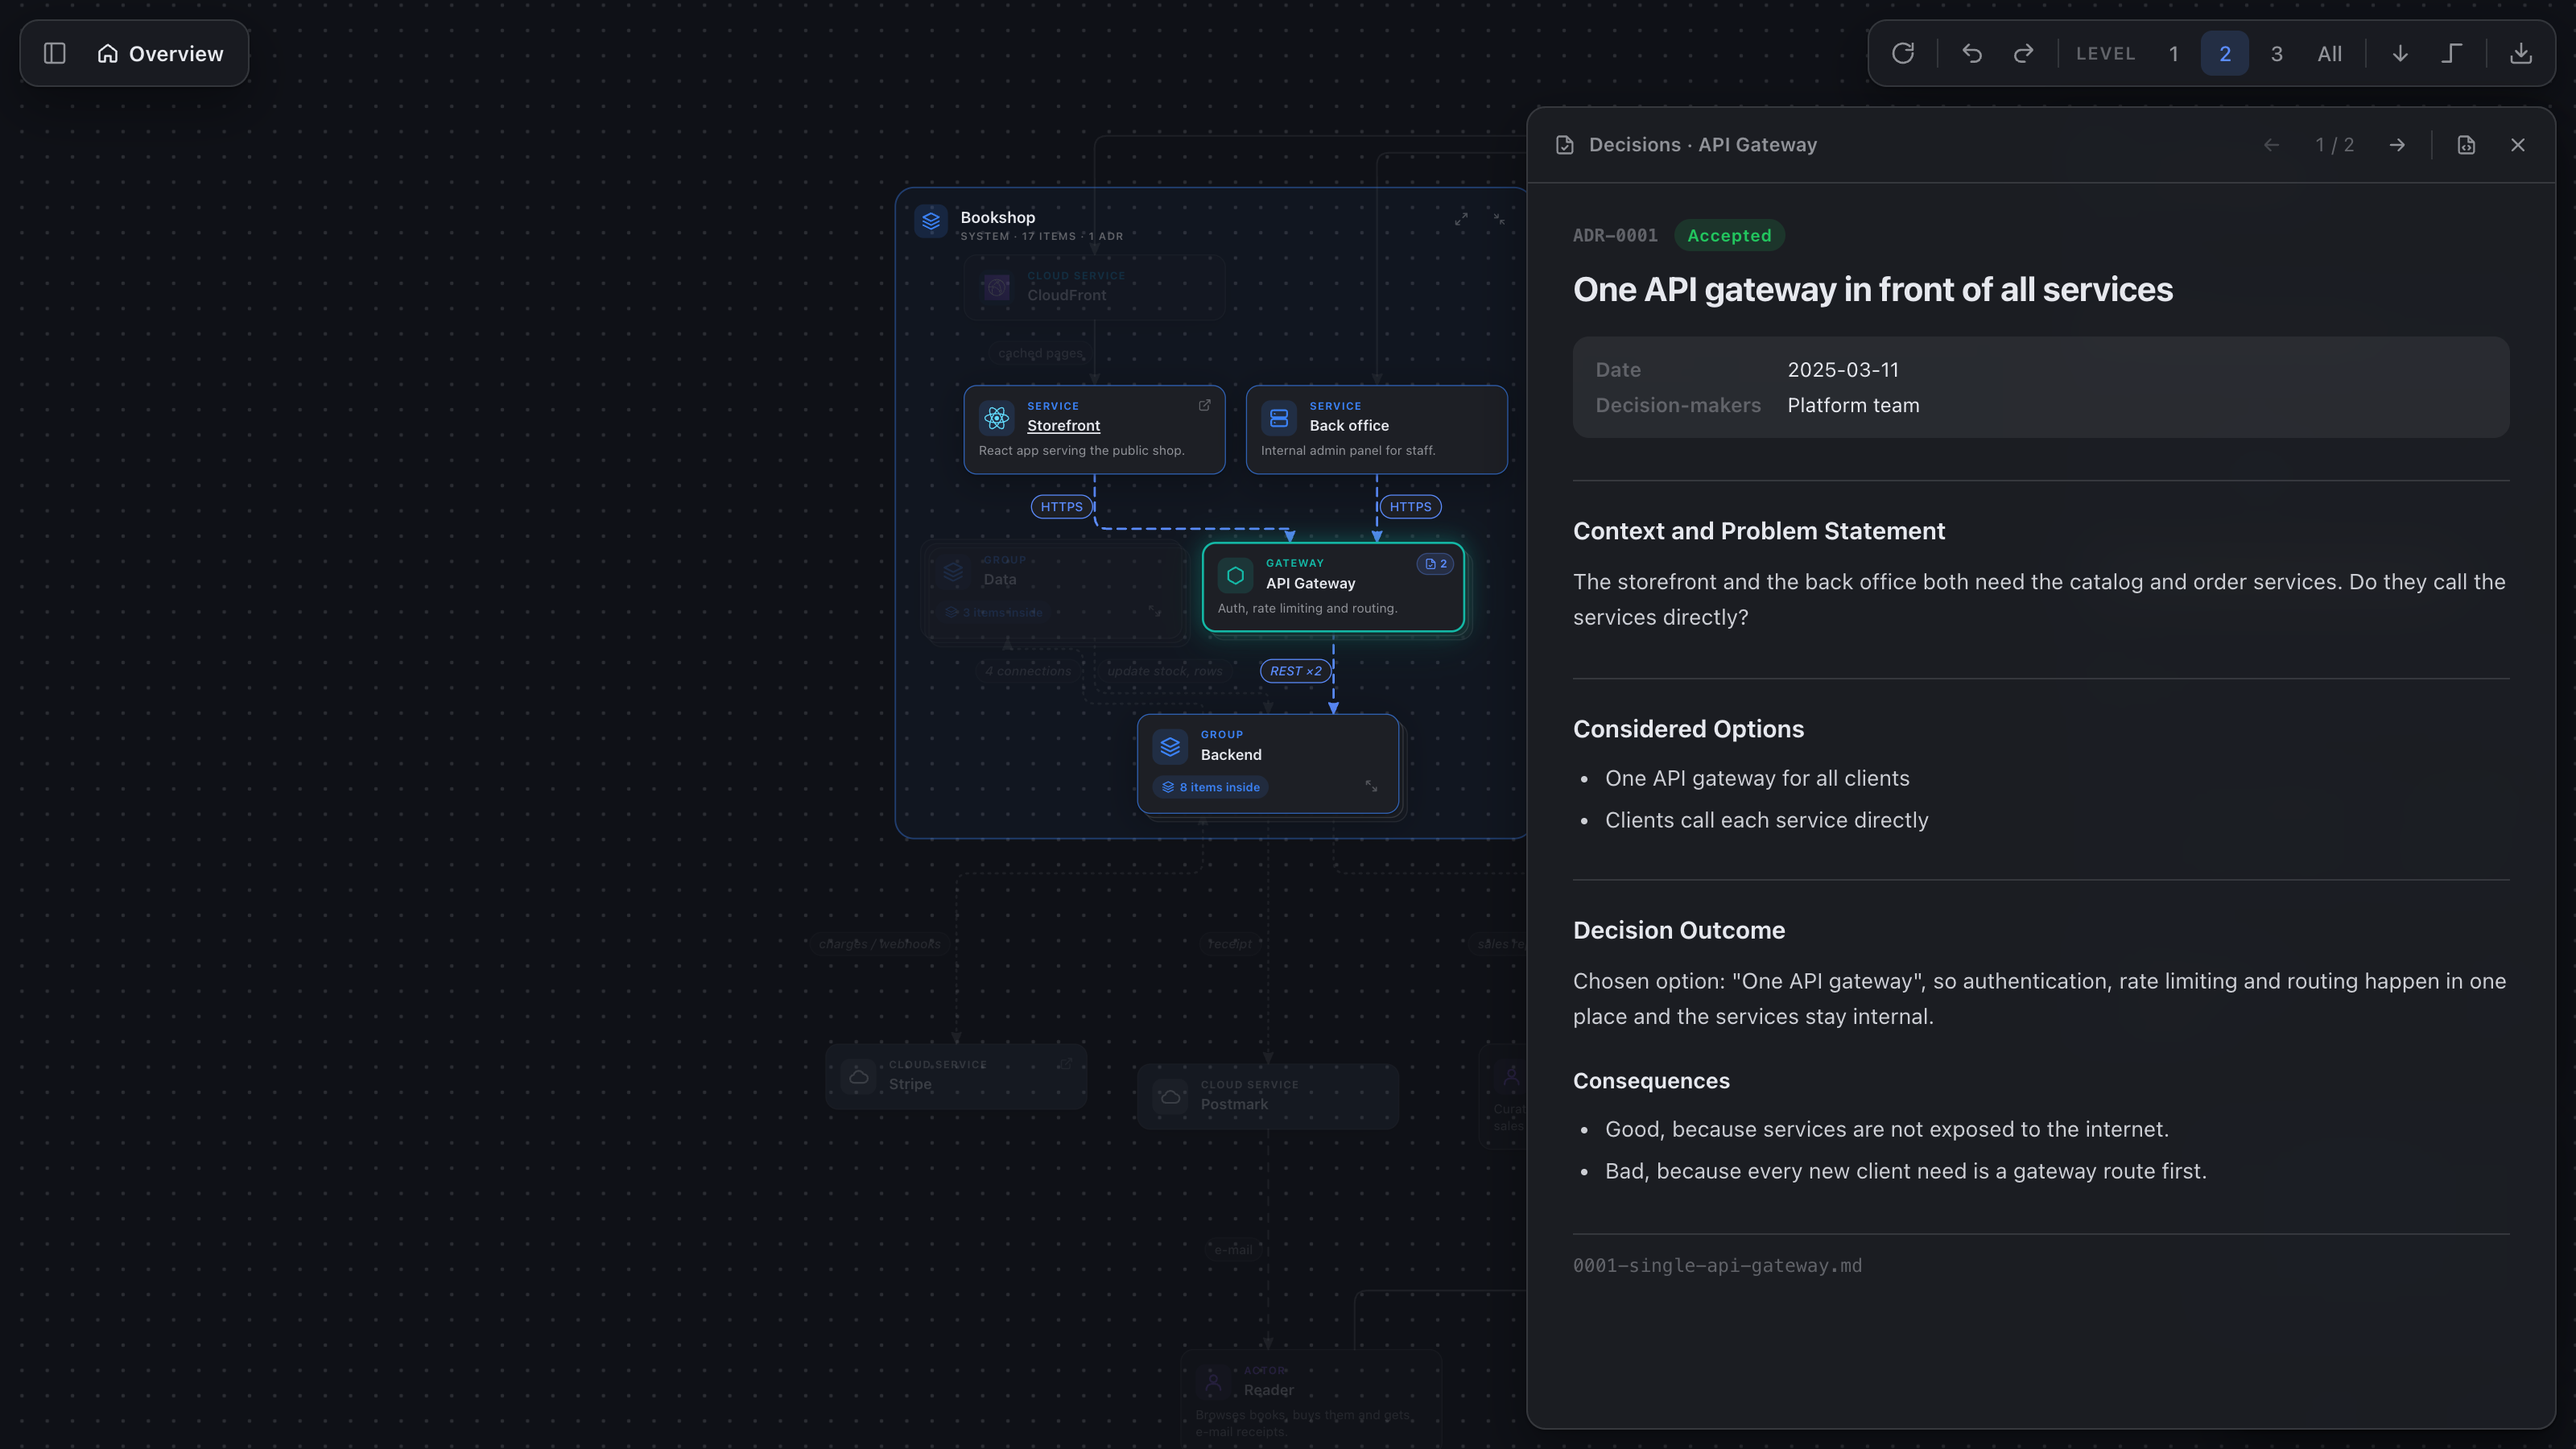
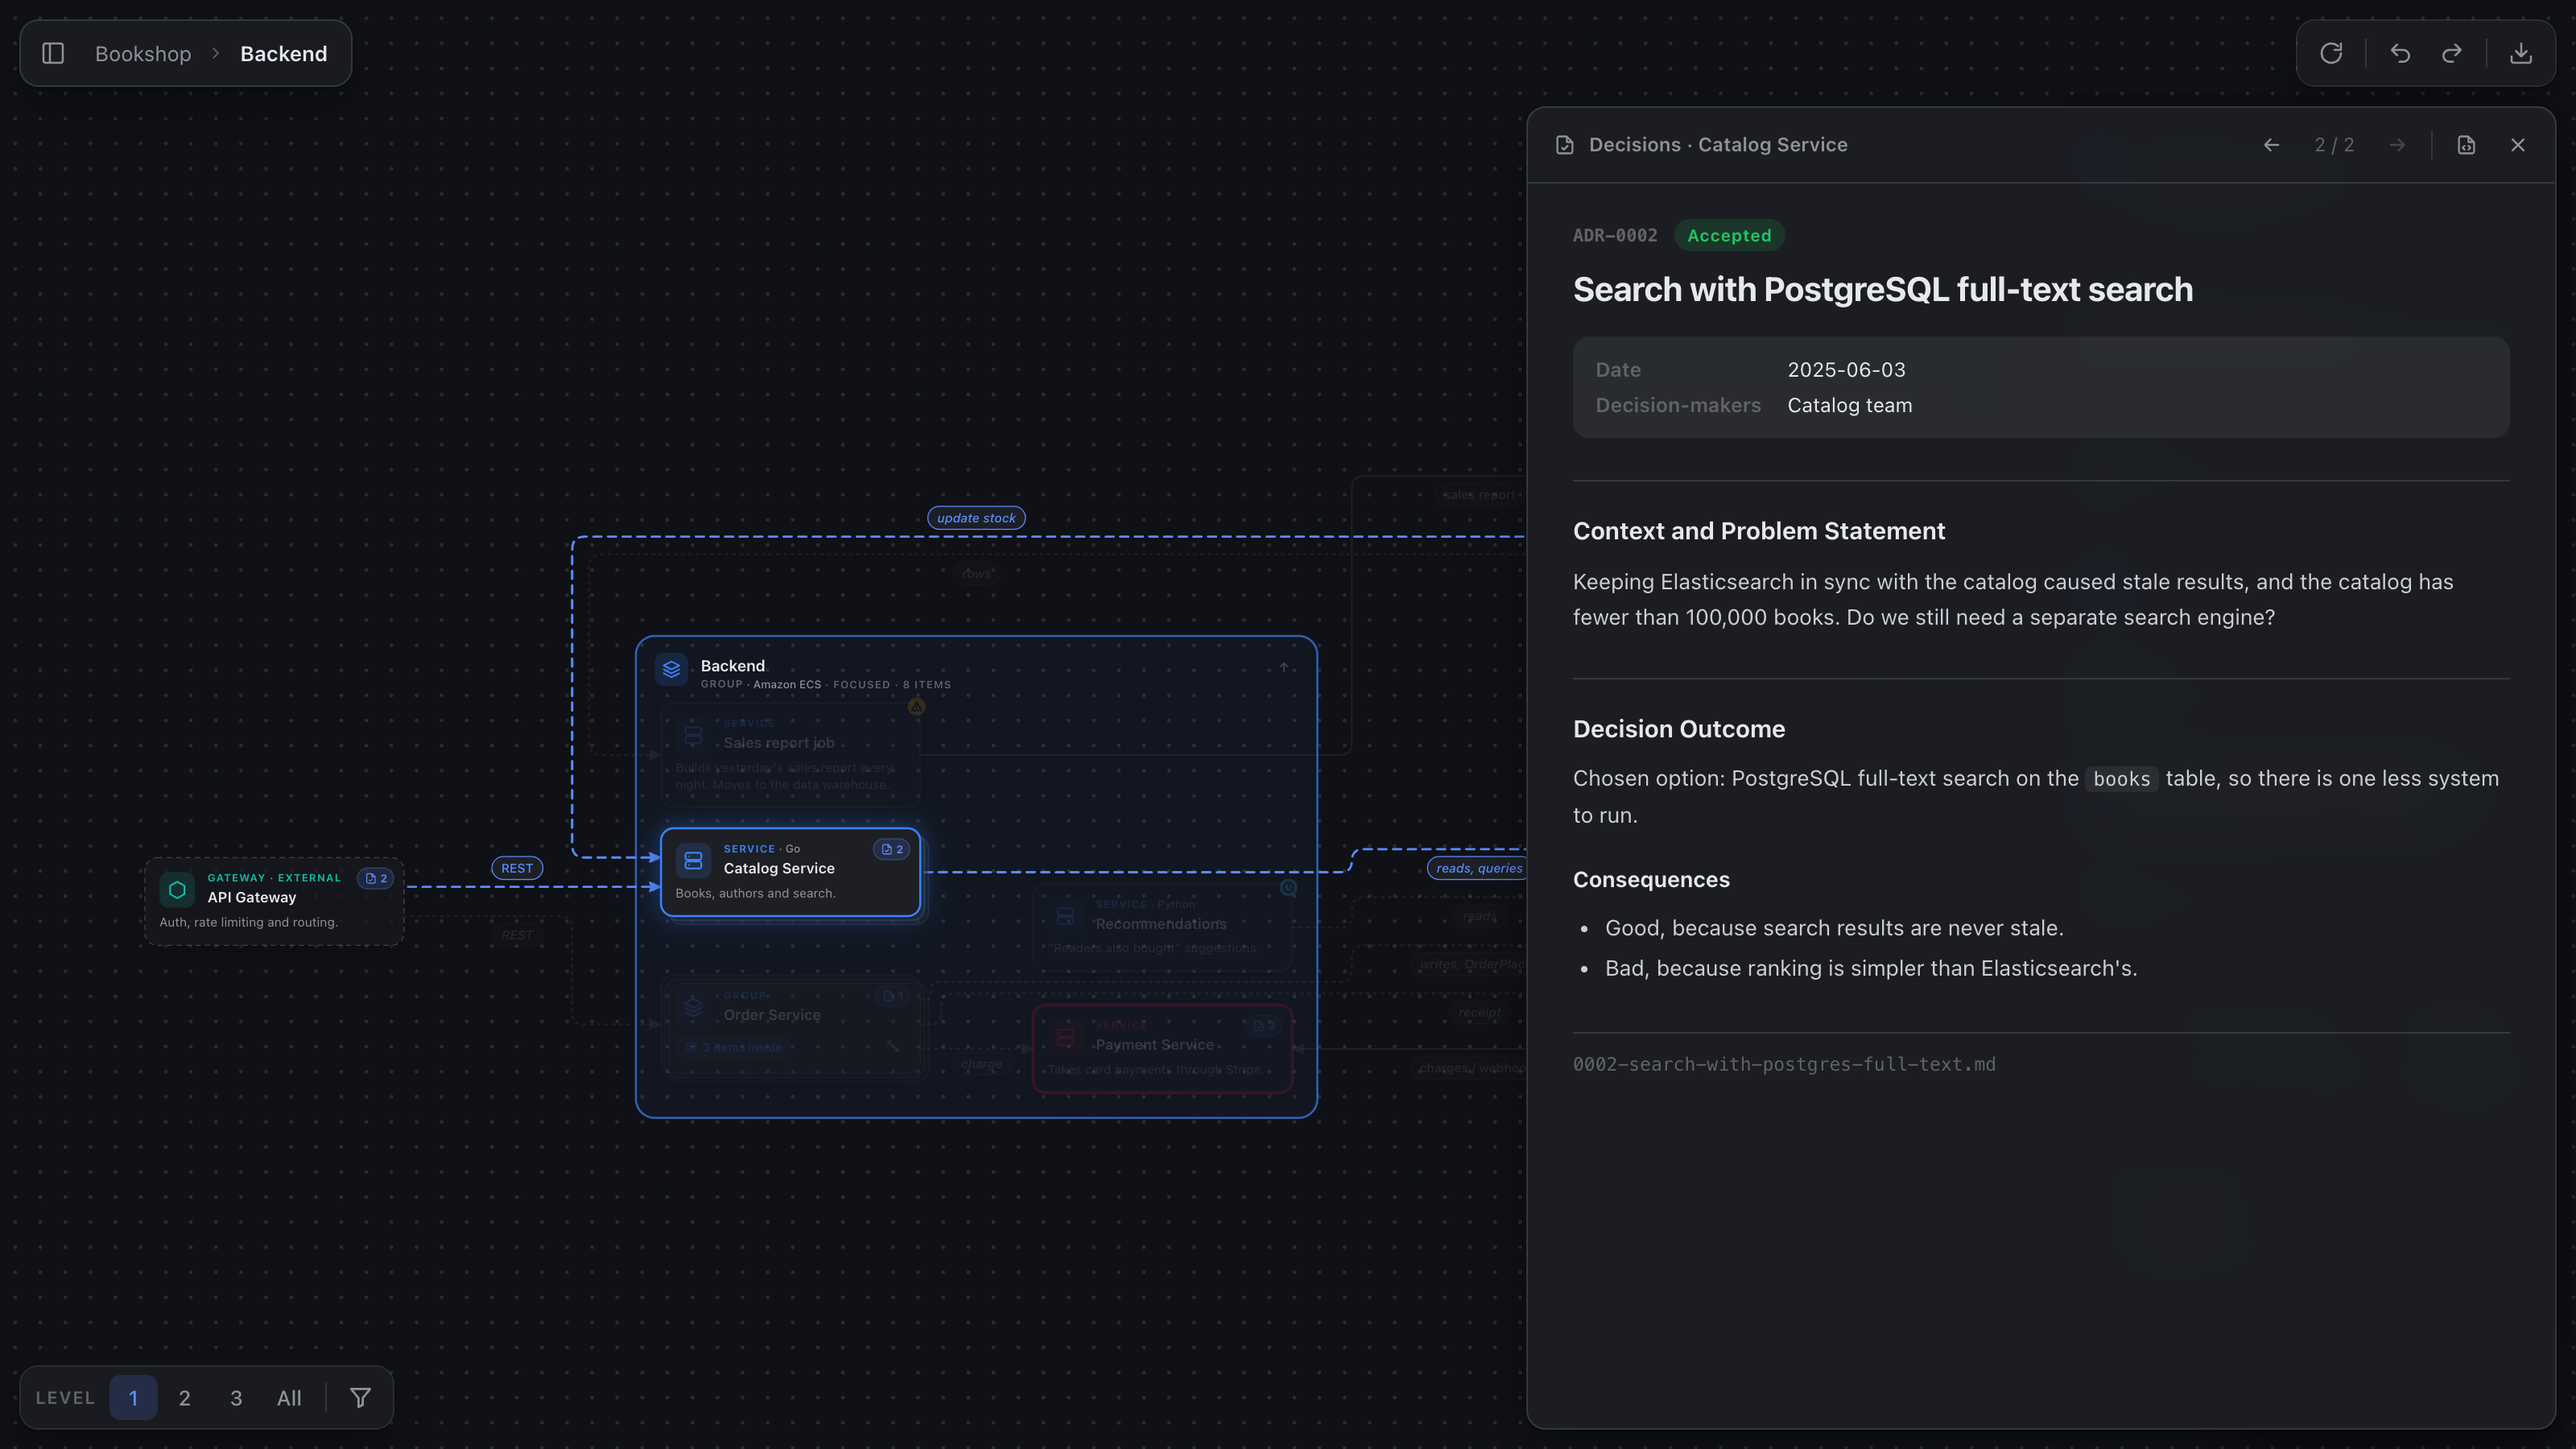
docs: refresh the README screenshots for the current UI
Both images now show the level and filter bar at the bottom left and the
slimmer toolbar. The overview is drilled into the Backend with the
Catalog Service selected, so it shows technologies, status badges, ADR
badges and context cards; the decision reader shows one of its records.

diff --git a/packages/vscode/README.md b/packages/vscode/README.md
@@ -6,7 +6,7 @@ mapitect opens a `.d2` file as a map you can zoom, pan and drill into. Large dia
 
 The file is parsed by the official D2 compiler ([`@d2lang/d2`](https://www.npmjs.com/package/@d2lang/d2), the WASM build of D2), so the preview understands the same syntax as the `d2` CLI, including classes, vars, globs and imports.
 
-<img src="https://raw.githubusercontent.com/codetent/mapitect/main/docs/images/overview.png" alt="mapitect showing the example bookshop architecture: the API Gateway is selected, its connections are highlighted, and the details panel lists its type, color, two architecture decisions and outgoing connections" width="100%">
+<img src="https://raw.githubusercontent.com/codetent/mapitect/main/docs/images/overview.png" alt="mapitect drilled into the Backend of the example bookshop: the Catalog Service is selected, its connections are highlighted, and the details panel shows its description, technology (Go), lifecycle status, type, two architecture decisions and outgoing connections" width="100%">
 
 ## Getting started
 
@@ -113,7 +113,7 @@ vars: {
 }
 ```
 
-<img src="https://raw.githubusercontent.com/codetent/mapitect/main/docs/images/decisions.png" alt="The decision reader showing ADR-0001, 'One API gateway in front of all services', next to the selected API Gateway in the map" width="100%">
+<img src="https://raw.githubusercontent.com/codetent/mapitect/main/docs/images/decisions.png" alt="The decision reader showing ADR-0002, 'Search with PostgreSQL full-text search', next to the selected Catalog Service in the map" width="100%">
 
 Inside each folder, a component gets its own subfolder named after the element, with its ADR files in it:
 

diff --git a/README.md b/README.md
@@ -14,7 +14,7 @@ and read the decisions behind every component, without leaving your editor.
 
 <br>
 
-<img src="docs/images/overview.png" alt="mapitect showing the example bookshop architecture: the API Gateway is selected, its connections are highlighted, and the details panel lists its type, color, two architecture decisions and outgoing connections" width="100%">
+<img src="docs/images/overview.png" alt="mapitect drilled into the Backend of the example bookshop: the Catalog Service is selected, its connections are highlighted, and the details panel shows its description, technology (Go), lifecycle status, type, two architecture decisions and outgoing connections" width="100%">
 
 </div>
 
@@ -101,7 +101,7 @@ The [example](examples/platform.d2) is a small online bookshop that uses every f
 <br>
 
 <div align="center">
-<img src="docs/images/decisions.png" alt="The decision reader showing ADR-0001, 'One API gateway in front of all services', next to the selected API Gateway in the map" width="100%">
+<img src="docs/images/decisions.png" alt="The decision reader showing ADR-0002, 'Search with PostgreSQL full-text search', next to the selected Catalog Service in the map" width="100%">
 <br><sub>The decision reader: the record behind the selected component, next to the map.</sub>
 </div>
 
